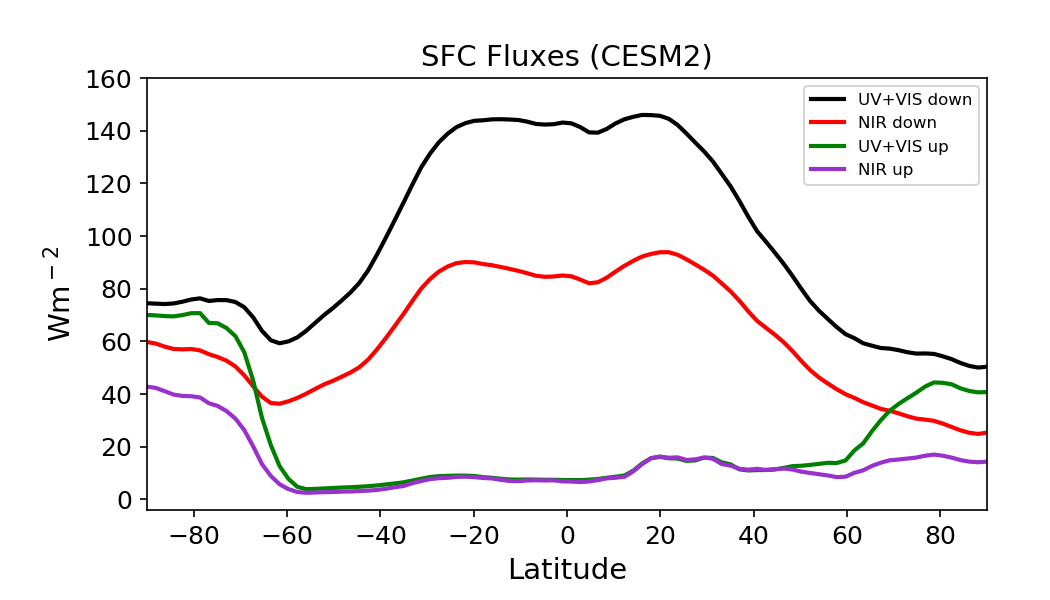
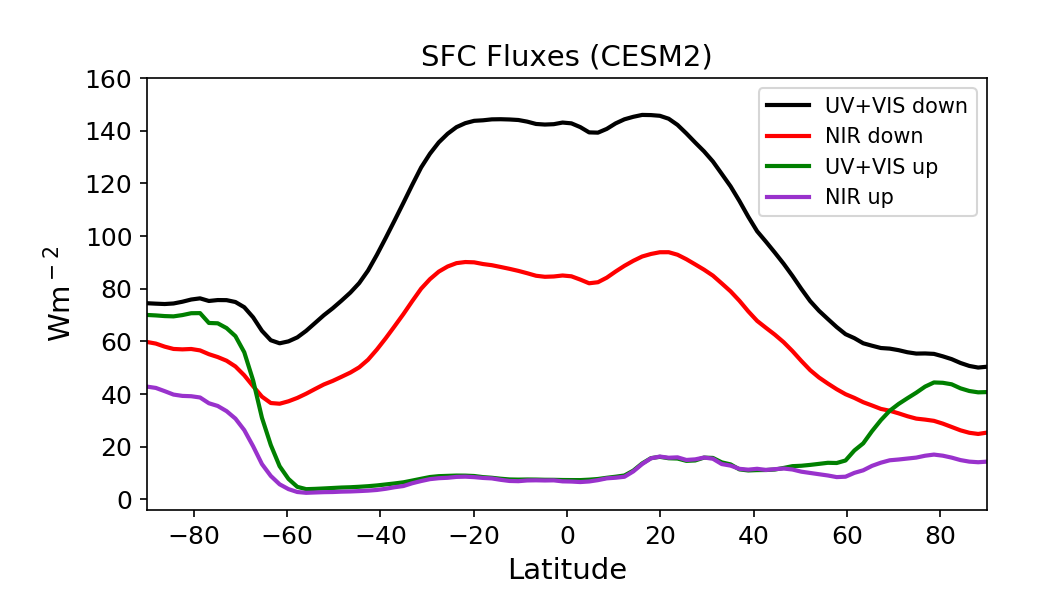
enlarge legend in fig3a

Changed region(s): [[0.7314, 0.12, 0.9448, 0.36]]

diff --git a/plots/plot_fig3a_zonal_mean_VIS_NIR.py b/plots/plot_fig3a_zonal_mean_VIS_NIR.py
@@ -38,8 +38,8 @@ exp_name="TSIS" #os.environ["exp_name"]
 ctl_pref="solar_CTL_cesm211_ETEST-f19_g17-ens_mean_2010-2019"
 exp_pref="solar_TSIS_cesm211_ETEST-f19_g17-ens_mean_2010-2019"
 
-fpath_ctl="/raid00/xianwen/cesm211_solar/"+ctl_pref+"/climo/"
-fpath_exp="/raid00/xianwen/cesm211_solar/"+exp_pref+"/climo/"
+fpath_ctl="/raid00/xianwen/data/cesm211_solar_exp/"+ctl_pref+"/climo/"
+fpath_exp="/raid00/xianwen/data/cesm211_solar_exp/"+exp_pref+"/climo/"
  
 years=np.arange(2010,2020) 
 #months_all=["01","02","03","04","05","06","07","08","09","10","11","12"]
@@ -198,7 +198,7 @@ ax1.plot(lat[:],means_ctl_dn[0,:],color="k",lw=2,ls="-",label="UV+VIS down")
 ax1.plot(lat[:],means_ctl_dn[1,:],color="r",lw=2,ls="-",label="NIR down")
 ax1.plot(lat[:],means_ctl_up[0,:],color="g",lw=2,ls="-",label="UV+VIS up")
 ax1.plot(lat[:],means_ctl_up[1,:],color="darkorchid",lw=2,ls="-",label="NIR up")
-ax1.legend(fontsize=8)
+ax1.legend(fontsize=10)
 ax1.set_title("SFC Fluxes (CESM2)",fontsize=14)
 ax1.set_xlabel("Latitude",fontsize=14)
 ax1.set_ylabel(units,fontsize=14)
